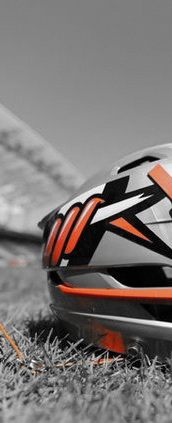
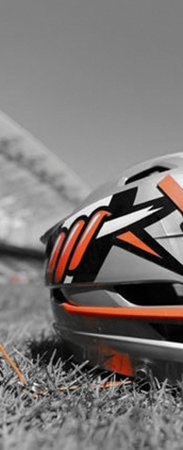
Change size on pictures to standard size for carousel

diff --git a/app/assets/stylesheets/static_pages.css.scss b/app/assets/stylesheets/static_pages.css.scss
@@ -27,7 +27,7 @@ body {
 }
 @media (min-width: 768px) and (max-width: 991px) { 
   #myCarousel{
-    div{
+    .item{
       img{
         width:100%;
         height:25em;
@@ -37,7 +37,7 @@ body {
 }
 @media (min-width: 992px) and (max-width: 1199px) { 
   #myCarousel{
-    div{
+    .item{
       img{
         width:100%;
         height:30em;
@@ -47,7 +47,7 @@ body {
  }
 @media (min-width: 1200px) { 
   #myCarousel{
-    div{
+    .item{
       img{
         width:100%;
         height:35em;

diff --git a/app/assets/stylesheets/bootstrap_and_overrides.css.scss b/app/assets/stylesheets/bootstrap_and_overrides.css.scss
@@ -11,7 +11,7 @@ $jumbotron-bg: #FFFFFF;
 }
 
 
-$grid-float-breakpoint: 1000px;
+$grid-float-breakpoint: 1200px;
 
 
 #homepage-cols{
